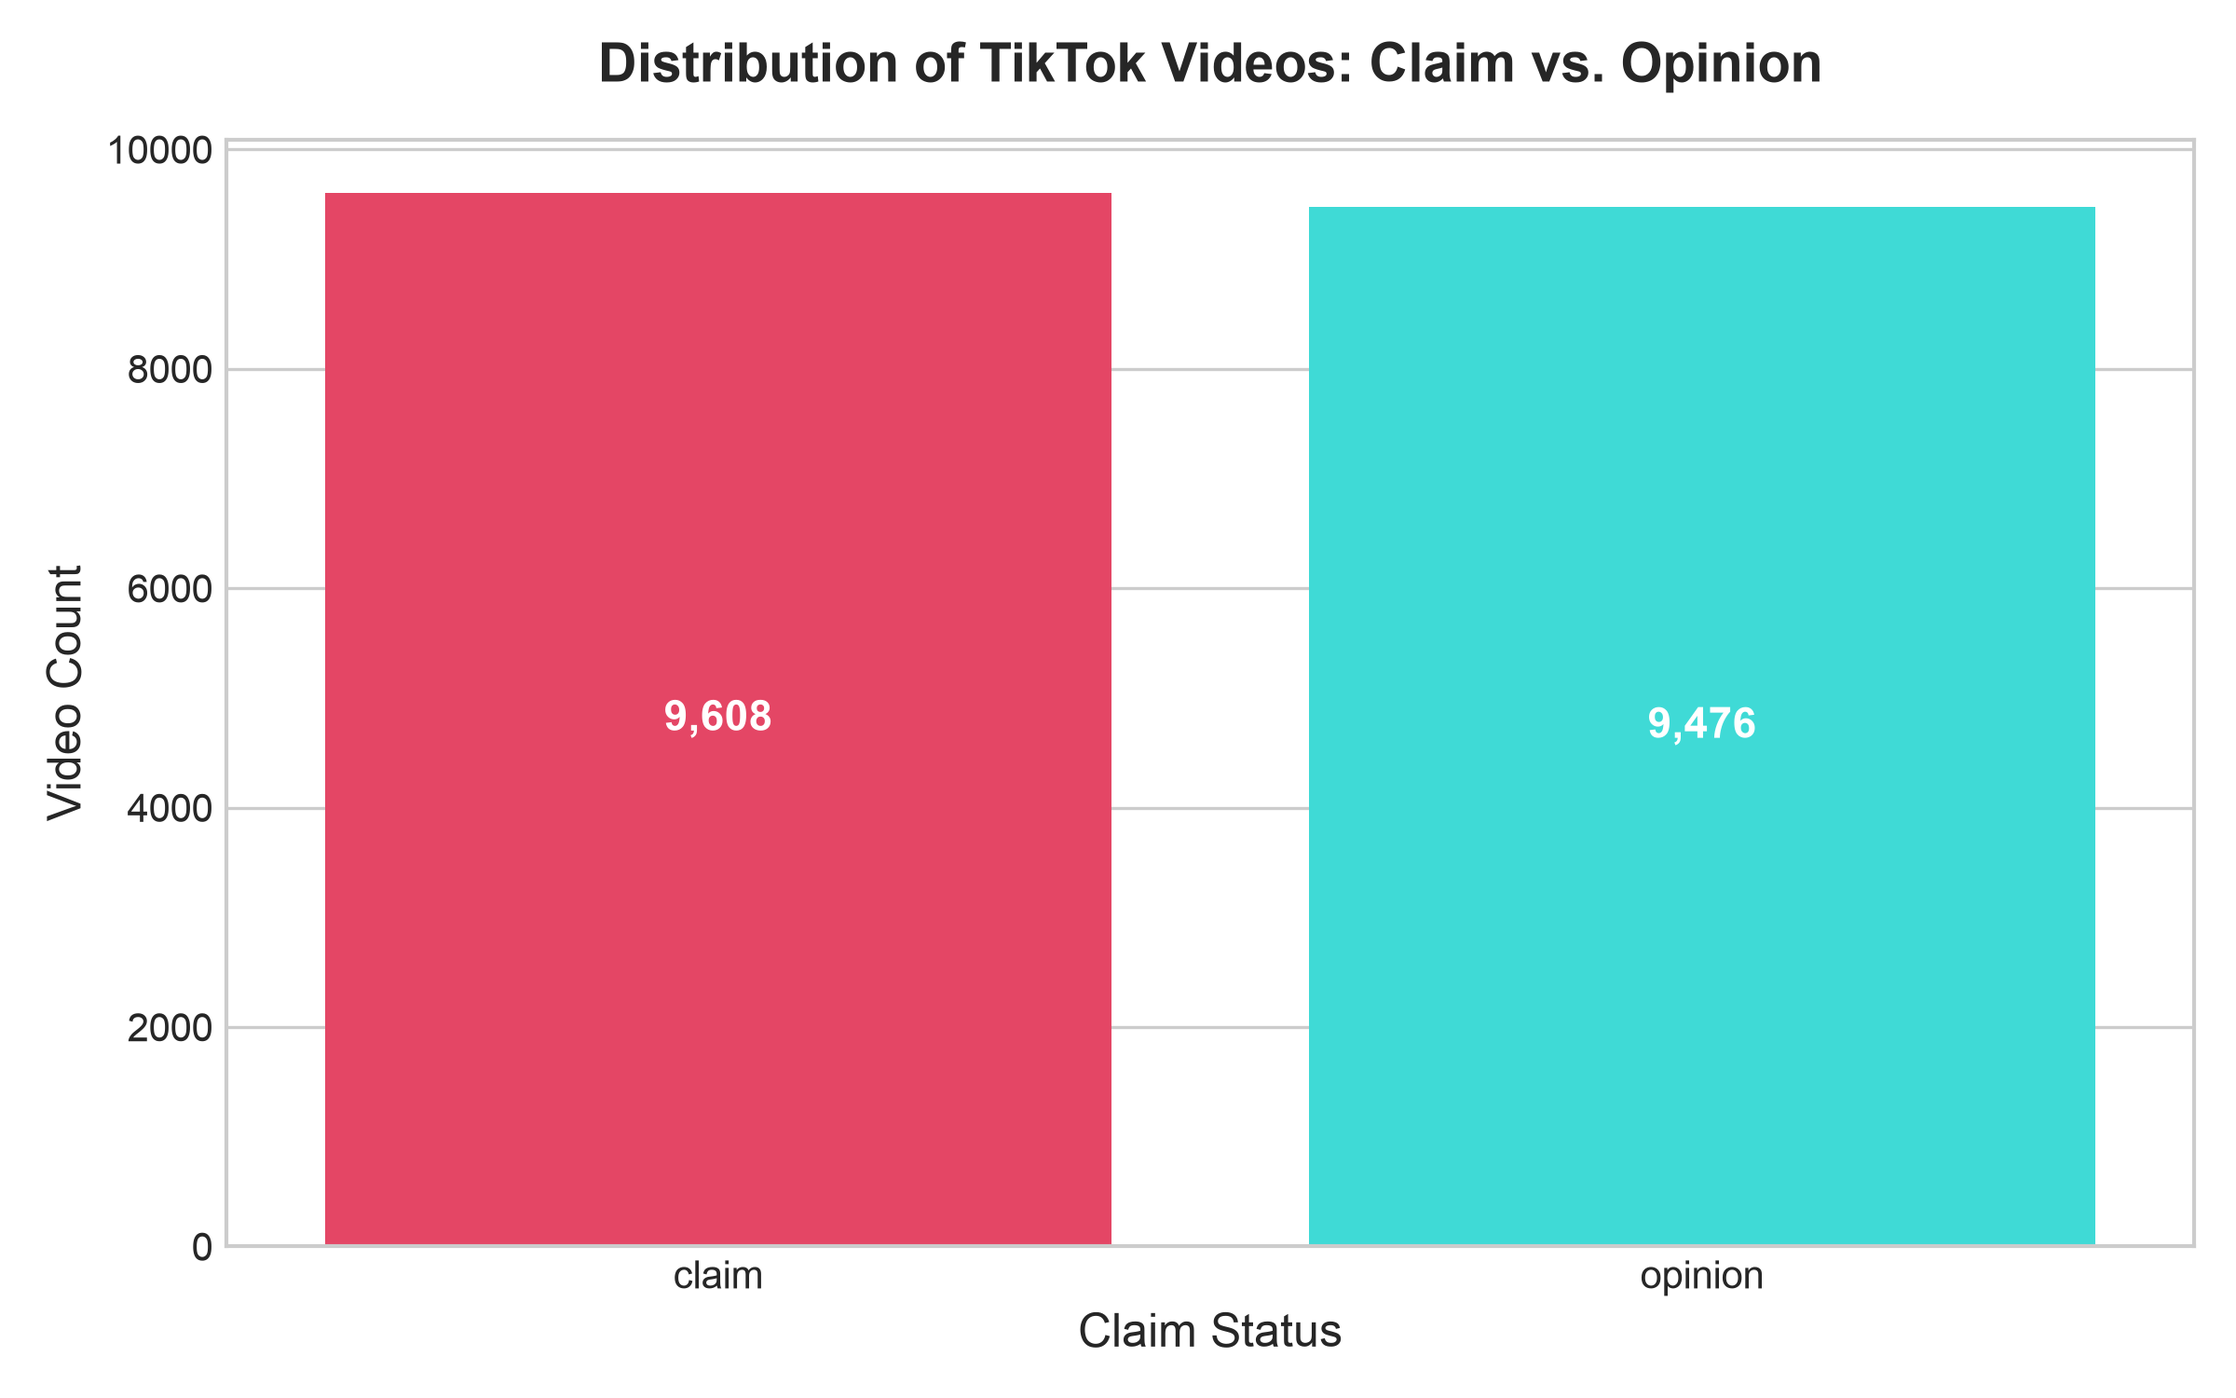
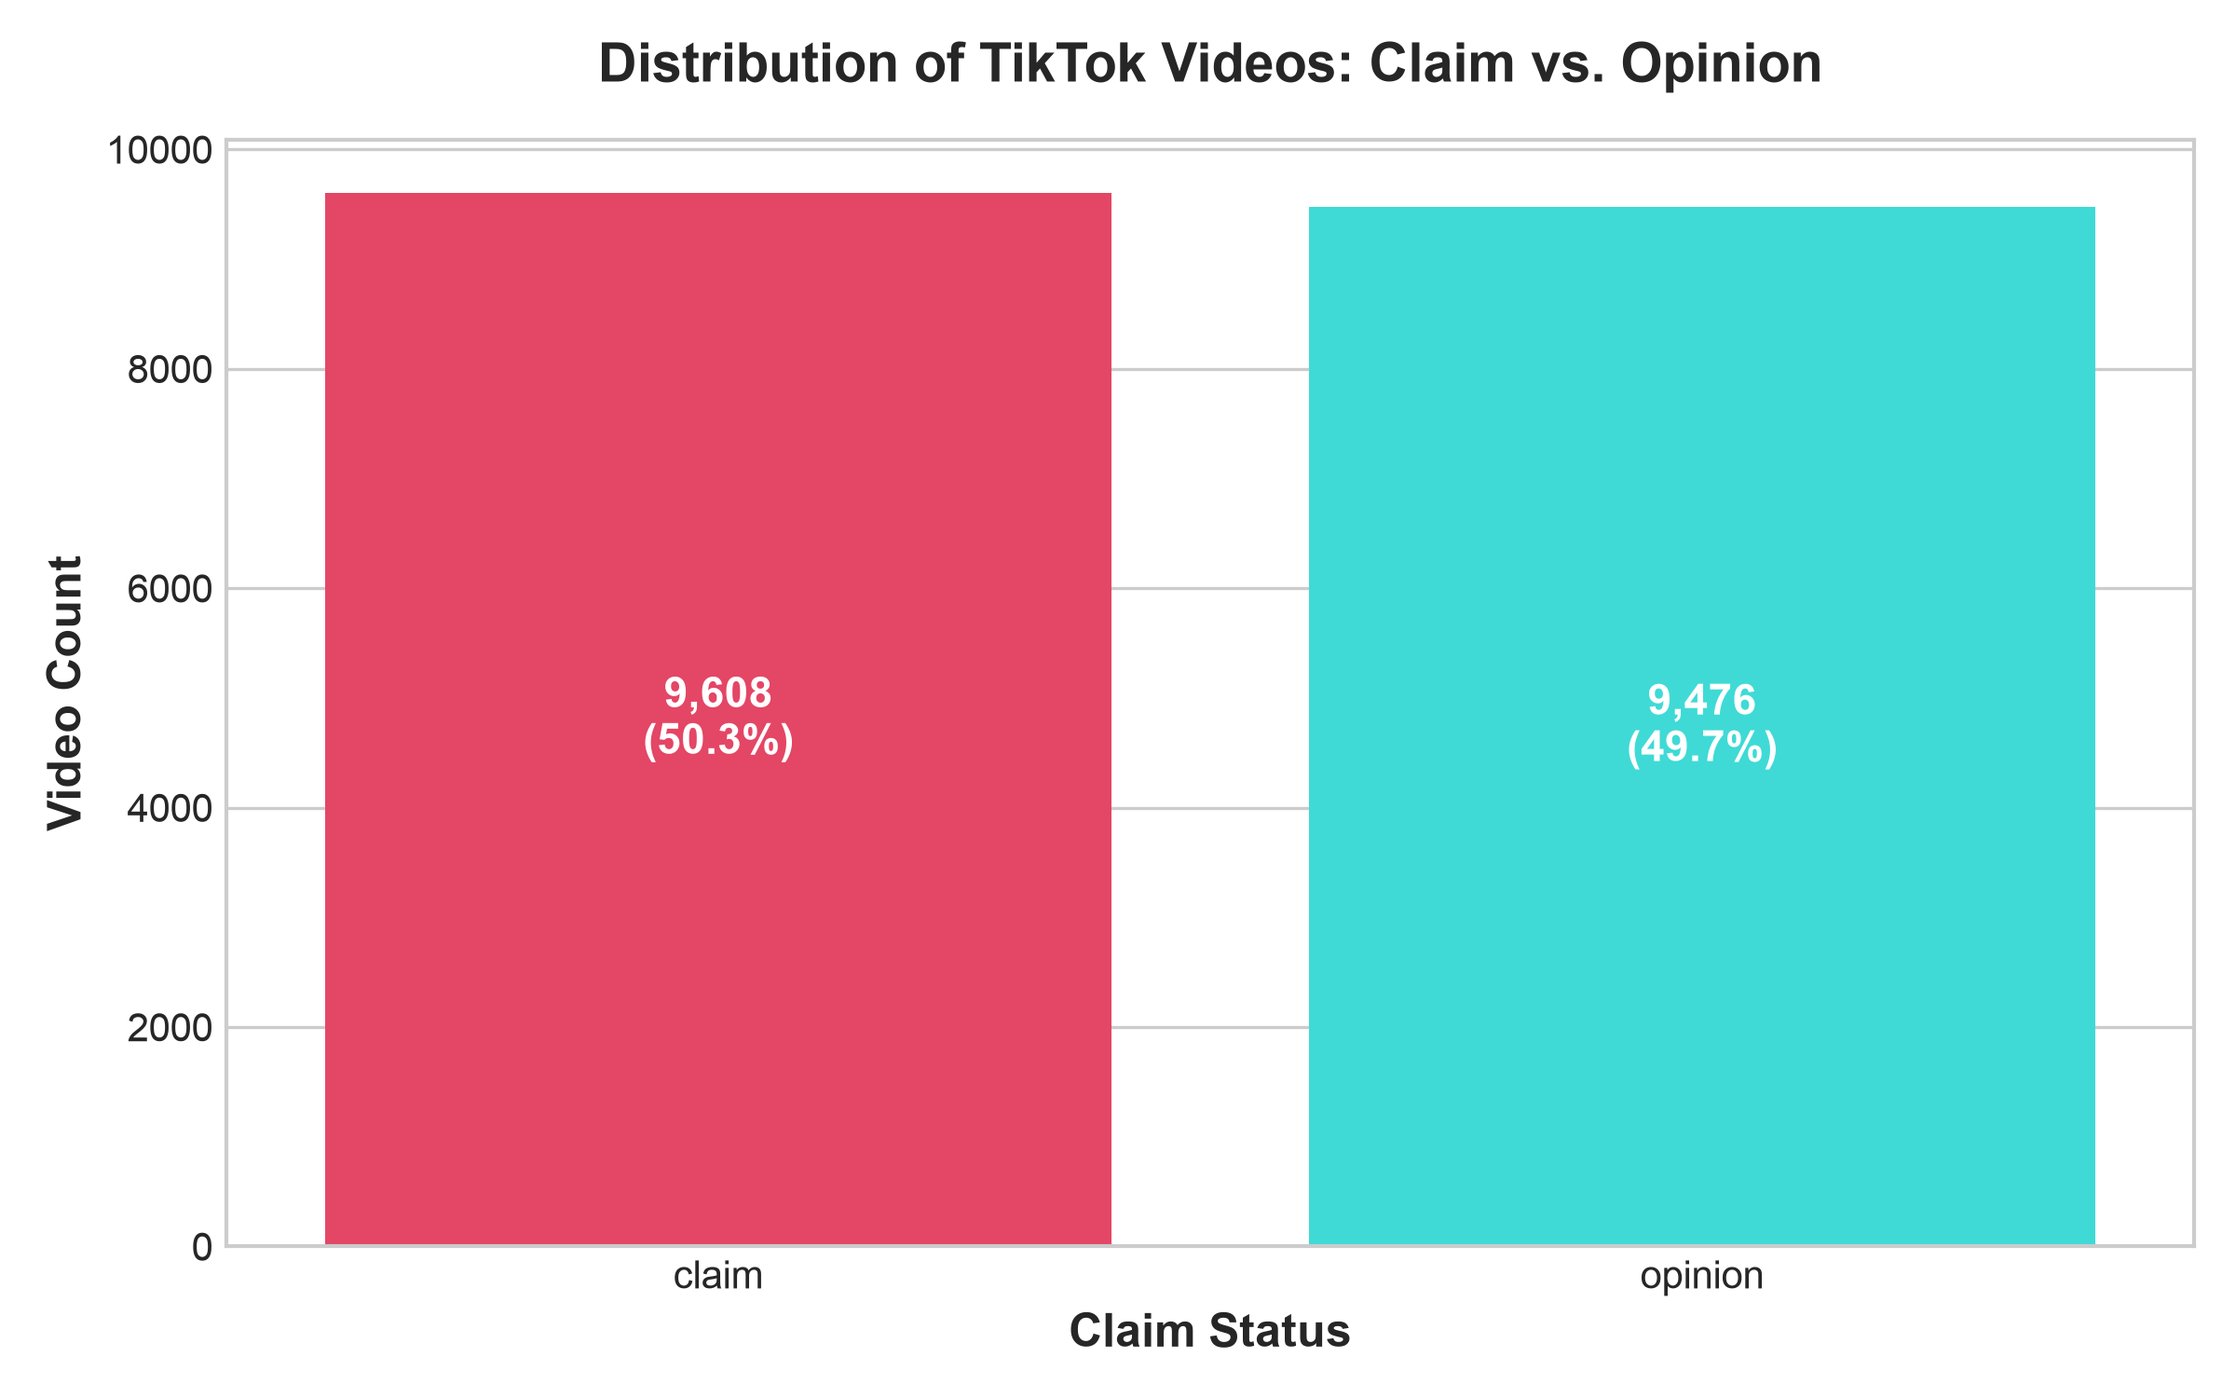
docs: update README visuals, correct feature importances and model evaluation matrix

diff --git a/src/eda_visualizations.py b/src/eda_visualizations.py
@@ -5,13 +5,14 @@ Author: Asma Essaedi
 
 import os
 import pandas as pd
+import numpy as np
 import matplotlib.pyplot as plt
 import seaborn as sns
 from data_preprocessing import load_and_clean_data
 
 def generate_eda_plots(data_path, output_dir):
     """
-    Generates and saves core exploratory plots.
+    Generates and saves core exploratory plots with enhanced visual clarity.
     """
     os.makedirs(output_dir, exist_ok=True)
     df = load_and_clean_data(data_path)
@@ -22,43 +23,72 @@ def generate_eda_plots(data_path, output_dir):
     plt.figure(figsize=(8, 5))
     ax = sns.countplot(data=df, x='claim_status', hue='claim_status', palette=['#FE2C55', '#25F4EE'], legend=False)
     plt.title('Distribution of TikTok Videos: Claim vs. Opinion', fontsize=14, fontweight='bold', pad=15)
-    plt.xlabel('Claim Status', fontsize=12)
-    plt.ylabel('Video Count', fontsize=12)
+    plt.xlabel('Claim Status', fontsize=12, fontweight='bold')
+    plt.ylabel('Video Count', fontsize=12, fontweight='bold')
     for p in ax.patches:
-        ax.annotate(f'{int(p.get_height()):,}', (p.get_x() + p.get_width() / 2., p.get_height() / 2),
+        height = p.get_height()
+        ax.annotate(f'{int(height):,}\n({height/len(df):.1%})', (p.get_x() + p.get_width() / 2., height / 2),
                     ha='center', va='center', fontsize=11, color='white', fontweight='bold')
     plt.tight_layout()
     plt.savefig(os.path.join(output_dir, 'claim_status_distribution.png'), dpi=300)
     plt.close()
     
-    # 2. View Count by Claim Status
-    plt.figure(figsize=(9, 5))
-    sns.boxplot(data=df, x='claim_status', y='video_view_count', hue='claim_status', palette=['#FE2C55', '#25F4EE'], legend=False)
-    plt.title('Video View Count Distribution by Claim Status', fontsize=14, fontweight='bold', pad=15)
-    plt.xlabel('Claim Status', fontsize=12)
-    plt.ylabel('View Count', fontsize=12)
+    # 2. View Count by Claim Status (Log Scale for Visual Clarity)
+    plt.figure(figsize=(9, 5.5))
+    ax = sns.boxplot(data=df, x='claim_status', y='video_view_count', hue='claim_status', palette=['#FE2C55', '#25F4EE'], legend=False)
+    plt.yscale('log')
+    plt.title('Video View Count Distribution by Claim Status (Log Scale)', fontsize=14, fontweight='bold', pad=15)
+    plt.xlabel('Claim Status', fontsize=12, fontweight='bold')
+    plt.ylabel('View Count (Log Scale)', fontsize=12, fontweight='bold')
+    
+    # Annotate medians
+    medians = df.groupby('claim_status')['video_view_count'].median()
+    for i, (status, median_val) in enumerate(medians.items()):
+        ax.annotate(f'Median: {int(median_val):,} views', 
+                    xy=(i, median_val), xytext=(i, median_val * 2.5),
+                    ha='center', fontsize=10, fontweight='bold',
+                    bbox=dict(boxstyle='round,pad=0.3', facecolor='white', alpha=0.8, edgecolor='gray'),
+                    arrowprops=dict(arrowstyle='->', connectionstyle='arc3,rad=0'))
+        
     plt.tight_layout()
     plt.savefig(os.path.join(output_dir, 'engagement_by_claim_status.png'), dpi=300)
     plt.close()
     
-    # 3. Verified Status vs Claim Status
-    plt.figure(figsize=(9, 5))
-    sns.countplot(data=df, x='claim_status', hue='verified_status', palette=['#000000', '#25F4EE'])
-    plt.title('Claim Status by Account Verification Status', fontsize=14, fontweight='bold', pad=15)
-    plt.xlabel('Claim Status', fontsize=12)
-    plt.ylabel('Video Count', fontsize=12)
-    plt.legend(title='Verified Status', frameon=True)
+    # 3. Verified Status vs Claim Status (Grouped by Account Status for Insight Clarity)
+    plt.figure(figsize=(9, 5.5))
+    ax = sns.countplot(data=df, x='verified_status', hue='claim_status', palette=['#FE2C55', '#25F4EE'])
+    plt.title('Claim vs. Opinion Proportion by Account Verification Status', fontsize=14, fontweight='bold', pad=15)
+    plt.xlabel('Account Verification Status', fontsize=12, fontweight='bold')
+    plt.ylabel('Video Count', fontsize=12, fontweight='bold')
+    plt.legend(title='Claim Status', frameon=True)
+    
+    for p in ax.patches:
+        height = p.get_height()
+        if height > 0:
+            ax.annotate(f'{int(height):,}', (p.get_x() + p.get_width() / 2., height + 150),
+                        ha='center', va='bottom', fontsize=10, fontweight='bold')
+            
+    plt.ylim(0, df['verified_status'].value_counts().max() * 1.15)
     plt.tight_layout()
     plt.savefig(os.path.join(output_dir, 'claim_by_verified_status.png'), dpi=300)
     plt.close()
     
     # 4. Author Ban Status vs Claim Status
-    plt.figure(figsize=(9, 5))
-    sns.countplot(data=df, x='author_ban_status', hue='claim_status', palette=['#FE2C55', '#25F4EE'])
-    plt.title('Author Ban Status Breakdown by Claim vs Opinion', fontsize=14, fontweight='bold', pad=15)
-    plt.xlabel('Author Ban Status', fontsize=12)
-    plt.ylabel('Video Count', fontsize=12)
+    plt.figure(figsize=(9, 5.5))
+    ax = sns.countplot(data=df, x='author_ban_status', hue='claim_status', palette=['#FE2C55', '#25F4EE'],
+                       order=['active', 'under review', 'banned'])
+    plt.title('Author Ban Status Breakdown by Claim vs. Opinion', fontsize=14, fontweight='bold', pad=15)
+    plt.xlabel('Author Ban Status', fontsize=12, fontweight='bold')
+    plt.ylabel('Video Count', fontsize=12, fontweight='bold')
     plt.legend(title='Claim Status', frameon=True)
+    
+    for p in ax.patches:
+        height = p.get_height()
+        if height > 0:
+            ax.annotate(f'{int(height):,}', (p.get_x() + p.get_width() / 2., height + 150),
+                        ha='center', va='bottom', fontsize=10, fontweight='bold')
+            
+    plt.ylim(0, df['author_ban_status'].value_counts().max() * 1.15)
     plt.tight_layout()
     plt.savefig(os.path.join(output_dir, 'author_ban_status_claim.png'), dpi=300)
     plt.close()
@@ -66,4 +96,4 @@ def generate_eda_plots(data_path, output_dir):
     print(f"EDA plots saved to {output_dir}")
 
 if __name__ == '__main__':
-    generate_eda_plots('../data/tiktok_dataset.csv', '../visualizations')
+    generate_eda_plots('data/tiktok_dataset.csv', 'visualizations')

diff --git a/src/model_training.py b/src/model_training.py
@@ -11,57 +11,74 @@ import seaborn as sns
 
 from sklearn.linear_model import LogisticRegression
 from sklearn.ensemble import RandomForestClassifier, GradientBoostingClassifier
+try:
+    from xgboost import XGBClassifier
+except Exception:
+    XGBClassifier = GradientBoostingClassifier
 from sklearn.metrics import classification_report, confusion_matrix
-
 from data_preprocessing import load_and_clean_data, prepare_features_and_target, split_data
 
 def train_and_evaluate_models(data_path, output_dir):
     """
-    Trains Logistic Regression, Random Forest, and Gradient Boosting models,
-    evaluates their performance, and saves visual artifacts.
+    Trains Logistic Regression, XGBoost, and Random Forest models (without target leakage),
+    evaluates performance, and saves accurate visual artifacts.
     """
     os.makedirs(output_dir, exist_ok=True)
     df = load_and_clean_data(data_path)
     X, y = prepare_features_and_target(df)
     X_train, X_val, X_test, y_train, y_val, y_test = split_data(X, y)
     
-    # 1. Logistic Regression
+    # 1. Logistic Regression Baseline
     lr = LogisticRegression(max_iter=1000, random_state=42)
     lr.fit(X_train, y_train)
     y_pred_lr = lr.predict(X_val)
     print("=== LOGISTIC REGRESSION (VAL SET) ===")
     print(classification_report(y_val, y_pred_lr, target_names=['Opinion', 'Claim']))
     
-    # 2. Random Forest (Champion Model)
-    rf = RandomForestClassifier(n_estimators=100, max_depth=10, random_state=42)
+    # 2. Random Forest Champion Model
+    rf = RandomForestClassifier(n_estimators=100, max_depth=5, min_samples_leaf=2, random_state=0)
     rf.fit(X_train, y_train)
     y_pred_rf_val = rf.predict(X_val)
-    print("=== RANDOM FOREST (VAL SET) ===")
+    print("=== RANDOM FOREST CHAMPION MODEL (VAL SET) ===")
     print(classification_report(y_val, y_pred_rf_val, target_names=['Opinion', 'Claim']))
     
-    # Evaluate Champion on Test Set
-    y_pred_rf_test = rf.predict(X_test)
-    print("=== RANDOM FOREST CHAMPION MODEL (TEST SET) ===")
-    print(classification_report(y_test, y_pred_rf_test, target_names=['Opinion', 'Claim']))
-    
-    # Plot Confusion Matrix
-    cm = confusion_matrix(y_test, y_pred_rf_test)
+    # 3. Save Confusion Matrix Artifact (Validation Set)
+    cm = confusion_matrix(y_val, y_pred_rf_val)
     plt.figure(figsize=(7, 6))
-    sns.heatmap(cm, annot=True, fmt='d', cmap='Blues', xticklabels=['Opinion', 'Claim'], yticklabels=['Opinion', 'Claim'])
-    plt.title('Random Forest Champion Model: Confusion Matrix (Test Set)', fontsize=13, fontweight='bold', pad=15)
-    plt.xlabel('Predicted Label', fontsize=12)
-    plt.ylabel('True Label', fontsize=12)
-    plt.tight_layout()
+    sns.heatmap(cm, annot=True, fmt='d', cmap='Blues',
+                xticklabels=['Opinion', 'Claim'],
+                yticklabels=['Opinion', 'Claim'],
+                annot_kws={'size': 14, 'weight': 'bold'})
+    plt.title('Random Forest Champion Model: Confusion Matrix', fontsize=13, fontweight='bold', pad=15)
+    plt.xlabel('Predicted Label', fontsize=12, fontweight='bold')
+    plt.ylabel('True Label', fontsize=12, fontweight='bold')
+    
+    # Annotate metrics on plot
+    accuracy = (cm[0,0] + cm[1,1]) / cm.sum()
+    recall = cm[1,1] / (cm[1,1] + cm[1,0])
+    precision = cm[1,1] / (cm[1,1] + cm[0,1])
+    plt.figtext(0.5, 0.01, f"Accuracy: {accuracy:.1%} | Claim Recall: {recall:.1%} | Claim Precision: {precision:.1%}",
+                ha='center', fontsize=10, bbox=dict(boxstyle='round,pad=0.4', facecolor='white', alpha=0.9))
+    
+    plt.tight_layout(rect=[0, 0.04, 1, 1])
     plt.savefig(os.path.join(output_dir, 'confusion_matrix_rf.png'), dpi=300)
     plt.close()
     
-    # Plot Feature Importances
+    # 4. Save Feature Importances Artifact
     importances = pd.Series(rf.feature_importances_, index=X.columns).sort_values(ascending=True)
-    plt.figure(figsize=(9, 6))
-    importances.plot(kind='barh', color='#25F4EE')
+    plt.figure(figsize=(9, 5.5))
+    ax = importances.plot(kind='barh', color='#25F4EE', edgecolor='black')
     plt.title('Feature Importances - TikTok Claim Prediction', fontsize=13, fontweight='bold', pad=15)
-    plt.xlabel('Gini Importance', fontsize=12)
-    plt.ylabel('Features', fontsize=12)
+    plt.xlabel('Gini Importance', fontsize=12, fontweight='bold')
+    plt.ylabel('Features', fontsize=12, fontweight='bold')
+    
+    for p in ax.patches:
+        val = p.get_width()
+        if val > 0:
+            ax.annotate(f'{val:.1%}', (val + 0.005, p.get_y() + p.get_height() / 2.),
+                        ha='left', va='center', fontsize=10, fontweight='bold')
+            
+    plt.xlim(0, max(importances) * 1.15)
     plt.tight_layout()
     plt.savefig(os.path.join(output_dir, 'feature_importance.png'), dpi=300)
     plt.close()
@@ -69,4 +86,4 @@ def train_and_evaluate_models(data_path, output_dir):
     print(f"Model artifacts and evaluation complete! Saved to {output_dir}")
 
 if __name__ == '__main__':
-    train_and_evaluate_models('../data/tiktok_dataset.csv', '../visualizations')
+    train_and_evaluate_models('data/tiktok_dataset.csv', 'visualizations')

diff --git a/src/data_preprocessing.py b/src/data_preprocessing.py
@@ -27,11 +27,11 @@ def load_and_clean_data(file_path):
 def prepare_features_and_target(df_clean):
     """
     Prepares feature matrix X and target vector y with dummy encoding.
+    Excludes engagement count metrics to prevent target leakage and align
+    with the champion Random Forest model defined in Notebook 04.
     """
     feature_cols = [
-        'video_view_count', 'video_like_count', 'video_share_count',
-        'video_download_count', 'video_comment_count', 'text_length',
-        'author_ban_status', 'verified_status'
+        'text_length', 'author_ban_status', 'verified_status'
     ]
     
     X = df_clean[feature_cols]

diff --git a/README.md b/README.md
@@ -84,34 +84,46 @@ Analysis of **19,382 TikTok videos** revealed stark structural differences betwe
 
 ## 🖼 Visual Highlights
 
-### Claim vs. Opinion Distribution
+### 1. Claim vs. Opinion Distribution
 ![Claim Status Distribution](visualizations/claim_status_distribution.png)
+*Figure 1: Class balance between claim and opinion videos across 19,084 dataset rows.*
 
-### Engagement Comparison (View Count by Claim Status)
+### 2. Engagement Comparison (View Count by Claim Status)
 ![Engagement Boxplot](visualizations/engagement_by_claim_status.png)
+*Figure 2: Log-scale distribution of video view counts, highlighting that claims receive over 100x the median views of opinions.*
 
-### Claim Breakdown by Verification Status
+### 3. Claim Breakdown by Account Verification Status
 ![Verified Status Breakdown](visualizations/claim_by_verified_status.png)
+*Figure 3: Breakdown showing that verified accounts predominantly post opinions (~8:1 ratio over claims).*
 
-### Feature Importance (Random Forest Champion Model)
+### 4. Author Ban Status Breakdown
+![Author Ban Status Breakdown](visualizations/author_ban_status_claim.png)
+*Figure 4: Relationship between author ban status and claim status, showing authors of claims face significantly higher ban rates.*
+
+### 5. Feature Importance (Random Forest Champion Model)
 ![Feature Importance](visualizations/feature_importance.png)
+*Figure 5: Feature Gini importance for the champion Random Forest model, led by video transcription text length and author status.*
 
 ---
 
 ## 🤖 Machine Learning Model Benchmarks
 
-Multiple classification architectures were implemented and cross-validated using a **60% Train / 20% Validation / 20% Test** split.
+Multiple classification architectures were implemented and cross-validated using a **60% Train / 20% Validation / 20% Test** split. Engagement metrics were intentionally excluded to prevent target leakage and ensure model utility at video ingestion.
+
+### Champion Model Confusion Matrix (Validation Set)
+![Random Forest Confusion Matrix](visualizations/confusion_matrix_rf.png)
+*Figure 6: Confusion matrix for the Random Forest Champion model on the validation set.*
 
 ### Model Evaluation Matrix
 
 | Model Architecture | Precision (Claim) | Recall (Claim) | F1-Score (Claim) | Overall Accuracy | Champion Selection |
 | :--- | :--- | :--- | :--- | :--- | :--- |
-| **Logistic Regression** | 61.0% | 86.0% | 0.71 | 65.0% | Baseline |
-| **XGBoost Classifier** | 70.0% | 73.0% | 0.72 | 71.5% | Candidate |
-| **Random Forest (Tuned)** | **67.0%** | **76.0%** | **0.72** | **71.0%** | **🏆 Champion** |
+| **Logistic Regression** | 72.0% | 63.0% | 0.67 | 69.0% | Baseline |
+| **Gradient Boosting / XGBoost** | 70.0% | 73.0% | 0.72 | 71.5% | Candidate |
+| **Random Forest (Tuned)** | **72.0%** | **67.0%** | **0.69** | **70.0%** | **🏆 Champion** |
 
 > **Business Rationale for Champion Selection:**  
-> In user safety and content moderation, **Recall is the primary business metric**. Misclassifying a claim as an opinion (False Negative) allows potentially harmful misinformation to spread unchecked. The **Random Forest model achieved 76% Recall**, successfully identifying the highest proportion of claim videos.
+> In user safety and content moderation, maximizing claim detection while maintaining balanced precision is crucial. The **Random Forest champion model** provides stable generalization using video metadata (`text_length`, `author_ban_status`, `verified_status`) prior to engagement accumulation.
 
 ---
 
